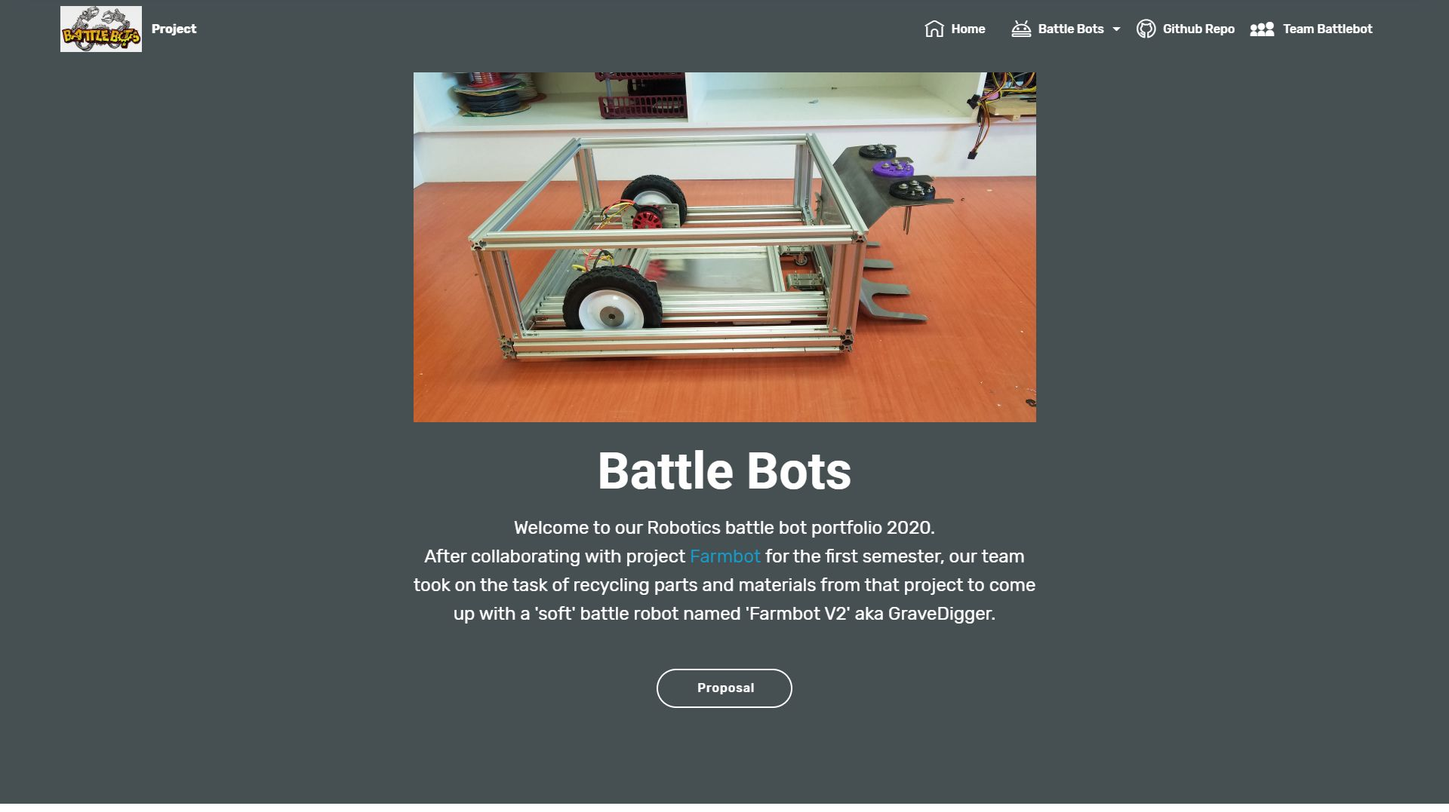
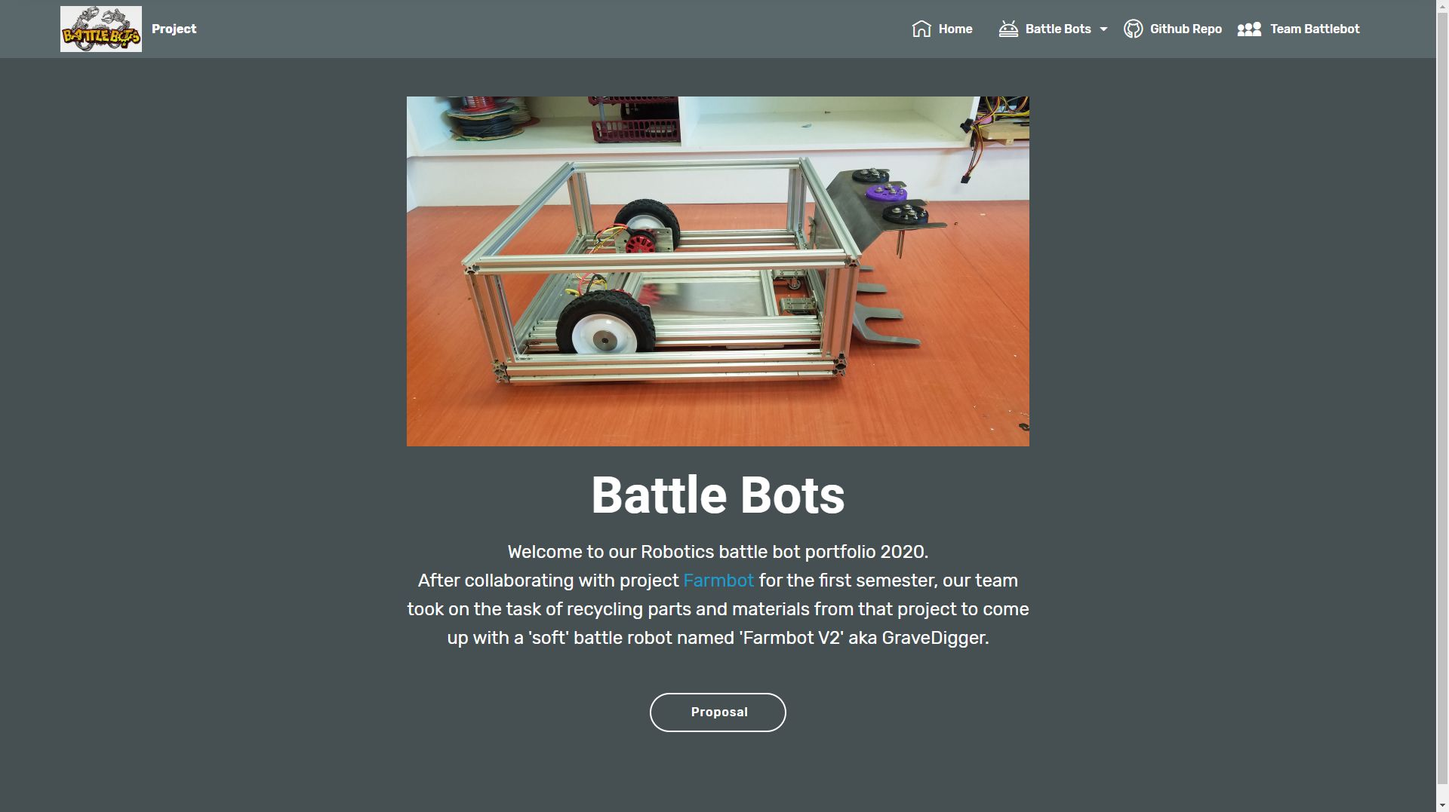
added videos to site

Changed region(s): [[0.0, 0.0, 1.0, 1.0], [0.4688, 0.8273, 0.5312, 0.8886]]

diff --git a/backuprobot.html b/backuprobot.html
@@ -61,7 +61,7 @@
                 <li class="nav-item">
                     <a class="nav-link link text-white display-4" href="index.html"><span class="mbrib-home mbr-iconfont mbr-iconfont-btn" style="font-size: 25px;"></span>
                         Home &nbsp; &nbsp;</a>
-                </li><li class="nav-item dropdown open"><a class="nav-link link text-white dropdown-toggle display-4" href="battlebotproposal.html" data-toggle="dropdown-submenu" aria-expanded="true"><span class="mbrib-android mbr-iconfont mbr-iconfont-btn" style="font-size: 25px;"></span>Battle Bots &nbsp;</a><div class="dropdown-menu"><a class="text-white dropdown-item display-4" href="battlebotproposal.html" aria-expanded="false"><span class="mbrib-edit mbr-iconfont mbr-iconfont-btn"></span>Proposal</a><a class="text-white dropdown-item display-4" href="epicentreaccess.html"><span class="mbrib-setting3 mbr-iconfont mbr-iconfont-btn"></span>EPICentre Access</a><a class="text-white dropdown-item display-4" href="farmbotv2build.html" aria-expanded="false"><span class="mbrib-setting mbr-iconfont mbr-iconfont-btn"></span>Farmbot V2 Build</a><a class="text-white dropdown-item text-primary display-4" href="backuprobot.html" aria-expanded="false"><span class="socicon socicon-bonanza mbr-iconfont mbr-iconfont-btn"></span>Plan B Robot</a></div></li><li class="nav-item"><a class="nav-link link text-white display-4" href="https://github.com/pangdw1/Battle-Bots-2020" aria-expanded="false" target="_blank"><span class="mbrib-github mbr-iconfont mbr-iconfont-btn" style="font-size: 25px;"></span>Github Repo</a></li><li class="nav-item"><a class="nav-link link text-white display-4" href="teambattlebots.html"><span class="socicon socicon-myspace mbr-iconfont mbr-iconfont-btn" style="font-size: 31px;"></span>
+                </li><li class="nav-item dropdown"><a class="nav-link link text-white dropdown-toggle display-4" href="battlebotproposal.html" data-toggle="dropdown-submenu" aria-expanded="true"><span class="mbrib-android mbr-iconfont mbr-iconfont-btn" style="font-size: 25px;"></span>Battle Bots &nbsp;</a><div class="dropdown-menu"><a class="text-white dropdown-item display-4" href="battlebotproposal.html" aria-expanded="false"><span class="mbrib-edit mbr-iconfont mbr-iconfont-btn"></span>Proposal</a><a class="text-white dropdown-item display-4" href="epicentreaccess.html"><span class="mbrib-setting3 mbr-iconfont mbr-iconfont-btn"></span>EPICentre Access</a><a class="text-white dropdown-item display-4" href="farmbotv2build.html" aria-expanded="false"><span class="mbrib-setting mbr-iconfont mbr-iconfont-btn"></span>Farmbot V2 Build</a><a class="text-white dropdown-item text-primary display-4" href="backuprobot.html" aria-expanded="false"><span class="socicon socicon-bonanza mbr-iconfont mbr-iconfont-btn"></span>Plan B Robot</a></div></li><li class="nav-item"><a class="nav-link link text-white display-4" href="https://github.com/pangdw1/Battle-Bots-2020" aria-expanded="false" target="_blank"><span class="mbrib-github mbr-iconfont mbr-iconfont-btn" style="font-size: 25px;"></span>Github Repo</a></li><li class="nav-item"><a class="nav-link link text-white display-4" href="teambattlebots.html"><span class="socicon socicon-myspace mbr-iconfont mbr-iconfont-btn" style="font-size: 31px;"></span>
                         Team Battlebot &nbsp;&nbsp;</a></li></ul>
             
         </div>
@@ -110,6 +110,30 @@
     </div>
 </section>
 
+<section class="video5 cid-sfqfHL4vdG" id="video5-3c">
+    
+    
+    <div class="container">
+        <div class="title-wrapper mb-5">
+            
+        </div>
+        <div class="row align-items-center">
+            <div class="col-12 col-lg-7 video-block">
+                <div class="video-wrapper"><iframe class="mbr-embedded-video" src="https://www.youtube.com/embed/UqUHuTtWvWg?rel=0&amp;amp;showinfo=0&amp;autoplay=0&amp;loop=0" width="1280" height="720" frameborder="0" allowfullscreen></iframe></div>
+                <p class="mbr-description pt-2 mbr-fonts-style display-4">Mini Robot</p>
+            </div>
+            <div class="col-12 col-lg">
+                <div class="text-wrapper">
+                    <h3 class="mbr-section-subtitle mbr-fonts-style mb-3 display-5">
+                        <strong>Remote funtionality</strong></h3>
+                    <p class="mbr-text mbr-fonts-style display-7">
+                        Connecting up a smaller robot with remote functionality</p>
+                </div>
+            </div>
+        </div>
+    </div>
+</section>
+
 <section class="mbr-section content8 cid-se0tSm7pts" id="content8-2s">
 
     
@@ -122,7 +146,7 @@
             </div>
         </div>
     </div>
-</section><section style="background-color: #fff; font-family: -apple-system, BlinkMacSystemFont, 'Segoe UI', 'Roboto', 'Helvetica Neue', Arial, sans-serif; color:#aaa; font-size:12px; padding: 0; align-items: center; display: flex;"><a href="https://mobirise.site/u" style="flex: 1 1; height: 3rem; padding-left: 1rem;"></a><p style="flex: 0 0 auto; margin:0; padding-right:1rem;">Mobirise site creator - <a href="https://mobirise.site/o" style="color:#aaa;">Go here</a></p></section><script src="assets/web/assets/jquery/jquery.min.js"></script>  <script src="assets/popper/popper.min.js"></script>  <script src="assets/bootstrap/js/bootstrap.min.js"></script>  <script src="assets/tether/tether.min.js"></script>  <script src="assets/smoothscroll/smooth-scroll.js"></script>  <script src="assets/dropdown/js/nav-dropdown.js"></script>  <script src="assets/dropdown/js/navbar-dropdown.js"></script>  <script src="assets/touchswipe/jquery.touch-swipe.min.js"></script>  <script src="assets/viewportchecker/jquery.viewportchecker.js"></script>  <script src="assets/theme/js/script.js"></script>  
+</section><section style="background-color: #fff; font-family: -apple-system, BlinkMacSystemFont, 'Segoe UI', 'Roboto', 'Helvetica Neue', Arial, sans-serif; color:#aaa; font-size:12px; padding: 0; align-items: center; display: flex;"><a href="https://mobirise.site/g" style="flex: 1 1; height: 3rem; padding-left: 1rem;"></a><p style="flex: 0 0 auto; margin:0; padding-right:1rem;">Mobirise website software - <a href="https://mobirise.site/o" style="color:#aaa;">Find more</a></p></section><script src="assets/web/assets/jquery/jquery.min.js"></script>  <script src="assets/popper/popper.min.js"></script>  <script src="assets/bootstrap/js/bootstrap.min.js"></script>  <script src="assets/tether/tether.min.js"></script>  <script src="assets/smoothscroll/smooth-scroll.js"></script>  <script src="assets/dropdown/js/nav-dropdown.js"></script>  <script src="assets/dropdown/js/navbar-dropdown.js"></script>  <script src="assets/touchswipe/jquery.touch-swipe.min.js"></script>  <script src="assets/viewportchecker/jquery.viewportchecker.js"></script>  <script src="assets/playervimeo/vimeo_player.js"></script>  <script src="assets/theme/js/script.js"></script>  
   
   
  <div id="scrollToTop" class="scrollToTop mbr-arrow-up"><a style="text-align: center;"><i class="mbr-arrow-up-icon mbr-arrow-up-icon-cm cm-icon cm-icon-smallarrow-up"></i></a></div>

diff --git a/farmbotv2build.html b/farmbotv2build.html
@@ -524,10 +524,9 @@
             
         </div>
         <div class="row align-items-center">
-            <div class="col-12 col-lg-6 video-block">
-                <div class="video-wrapper"><iframe class="mbr-embedded-video" src="https://www.youtube.com/embed/UqUHuTtWvWg?rel=0&amp;amp;showinfo=0&amp;autoplay=0&amp;loop=0" width="1280" height="720" frameborder="0" allowfullscreen></iframe></div>
-                <p class="mbr-description pt-2 mbr-fonts-style display-4">
-                    Video Description</p>
+            <div class="col-12 col-lg-7 video-block">
+                <div class="video-wrapper"><iframe class="mbr-embedded-video" src="https://www.youtube.com/embed/kjGyC5K4dxk?rel=0&amp;amp;showinfo=0&amp;autoplay=0&amp;loop=0" width="1280" height="720" frameborder="0" allowfullscreen></iframe></div>
+                
             </div>
             <div class="col-12 col-lg">
                 <div class="text-wrapper">
@@ -548,9 +547,8 @@
         </div>
         <div class="row align-items-center">
             <div class="col-12 col-lg-6 video-block">
-                <div class="video-wrapper"><iframe class="mbr-embedded-video" src="https://www.youtube.com/embed/VA8PzkQa8d8?rel=0&amp;amp;showinfo=0&amp;autoplay=0&amp;loop=0" width="1280" height="720" frameborder="0" allowfullscreen></iframe></div>
-                <p class="mbr-description pt-2 mbr-fonts-style display-4">
-                    Video Description</p>
+                <div class="video-wrapper"><iframe class="mbr-embedded-video" src="https://www.youtube.com/embed/UqUHuTtWvWg?rel=0&amp;amp;showinfo=0&amp;autoplay=0&amp;loop=0" width="1280" height="720" frameborder="0" allowfullscreen></iframe></div>
+                
             </div>
             <div class="col-12 col-lg">
                 <div class="text-wrapper">
@@ -660,7 +658,7 @@
             </div>
         </div>
     </div>
-</section><section style="background-color: #fff; font-family: -apple-system, BlinkMacSystemFont, 'Segoe UI', 'Roboto', 'Helvetica Neue', Arial, sans-serif; color:#aaa; font-size:12px; padding: 0; align-items: center; display: flex;"><a href="https://mobirise.site/u" style="flex: 1 1; height: 3rem; padding-left: 1rem;"></a><p style="flex: 0 0 auto; margin:0; padding-right:1rem;"><a href="https://mobirise.site/d" style="color:#aaa;">This web page</a> was created with Mobirise</p></section><script src="assets/web/assets/jquery/jquery.min.js"></script>  <script src="assets/popper/popper.min.js"></script>  <script src="assets/bootstrap/js/bootstrap.min.js"></script>  <script src="assets/tether/tether.min.js"></script>  <script src="assets/smoothscroll/smooth-scroll.js"></script>  <script src="assets/dropdown/js/nav-dropdown.js"></script>  <script src="assets/dropdown/js/navbar-dropdown.js"></script>  <script src="assets/touchswipe/jquery.touch-swipe.min.js"></script>  <script src="assets/viewportchecker/jquery.viewportchecker.js"></script>  <script src="assets/playervimeo/vimeo_player.js"></script>  <script src="assets/masonry/masonry.pkgd.min.js"></script>  <script src="assets/imagesloaded/imagesloaded.pkgd.min.js"></script>  <script src="assets/bootstrapcarouselswipe/bootstrap-carousel-swipe.js"></script>  <script src="assets/vimeoplayer/jquery.mb.vimeo_player.js"></script>  <script src="assets/theme/js/script.js"></script>  <script src="assets/gallery/player.min.js"></script>  <script src="assets/gallery/script.js"></script>  <script src="assets/slidervideo/script.js"></script>  
+</section><section style="background-color: #fff; font-family: -apple-system, BlinkMacSystemFont, 'Segoe UI', 'Roboto', 'Helvetica Neue', Arial, sans-serif; color:#aaa; font-size:12px; padding: 0; align-items: center; display: flex;"><a href="https://mobirise.site/x" style="flex: 1 1; height: 3rem; padding-left: 1rem;"></a><p style="flex: 0 0 auto; margin:0; padding-right:1rem;"><a href="https://mobirise.site/c" style="color:#aaa;">The</a> website was made with Mobirise</p></section><script src="assets/web/assets/jquery/jquery.min.js"></script>  <script src="assets/popper/popper.min.js"></script>  <script src="assets/bootstrap/js/bootstrap.min.js"></script>  <script src="assets/tether/tether.min.js"></script>  <script src="assets/smoothscroll/smooth-scroll.js"></script>  <script src="assets/dropdown/js/nav-dropdown.js"></script>  <script src="assets/dropdown/js/navbar-dropdown.js"></script>  <script src="assets/touchswipe/jquery.touch-swipe.min.js"></script>  <script src="assets/viewportchecker/jquery.viewportchecker.js"></script>  <script src="assets/playervimeo/vimeo_player.js"></script>  <script src="assets/masonry/masonry.pkgd.min.js"></script>  <script src="assets/imagesloaded/imagesloaded.pkgd.min.js"></script>  <script src="assets/bootstrapcarouselswipe/bootstrap-carousel-swipe.js"></script>  <script src="assets/vimeoplayer/jquery.mb.vimeo_player.js"></script>  <script src="assets/theme/js/script.js"></script>  <script src="assets/gallery/player.min.js"></script>  <script src="assets/gallery/script.js"></script>  <script src="assets/slidervideo/script.js"></script>  
   
   
  <div id="scrollToTop" class="scrollToTop mbr-arrow-up"><a style="text-align: center;"><i class="mbr-arrow-up-icon mbr-arrow-up-icon-cm cm-icon cm-icon-smallarrow-up"></i></a></div>

diff --git a/assets/mobirise/css/mbr-additional.css b/assets/mobirise/css/mbr-additional.css
@@ -687,12 +687,12 @@ section.lazy-placeholder:after {
 }
 .cid-s6Pq13j6kX .navbar {
   padding: .5rem 0;
-  background: #465052;
+  background: #5b686b;
   transition: none;
   min-height: 77px;
 }
 .cid-s6Pq13j6kX .navbar-dropdown.bg-color.transparent.opened {
-  background: #465052;
+  background: #5b686b;
 }
 .cid-s6Pq13j6kX a {
   font-style: normal;
@@ -776,7 +776,7 @@ section.lazy-placeholder:after {
   padding-bottom: 0;
 }
 .cid-s6Pq13j6kX .dropdown .dropdown-menu {
-  background: #465052;
+  background: #5b686b;
   display: none;
   position: absolute;
   min-width: 5rem;
@@ -1103,12 +1103,12 @@ section.lazy-placeholder:after {
 }
 .cid-s6Pq13j6kX .navbar {
   padding: .5rem 0;
-  background: #465052;
+  background: #5b686b;
   transition: none;
   min-height: 77px;
 }
 .cid-s6Pq13j6kX .navbar-dropdown.bg-color.transparent.opened {
-  background: #465052;
+  background: #5b686b;
 }
 .cid-s6Pq13j6kX a {
   font-style: normal;
@@ -1192,7 +1192,7 @@ section.lazy-placeholder:after {
   padding-bottom: 0;
 }
 .cid-s6Pq13j6kX .dropdown .dropdown-menu {
-  background: #465052;
+  background: #5b686b;
   display: none;
   position: absolute;
   min-width: 5rem;
@@ -1546,12 +1546,12 @@ section.lazy-placeholder:after {
 }
 .cid-s6Pq13j6kX .navbar {
   padding: .5rem 0;
-  background: #465052;
+  background: #5b686b;
   transition: none;
   min-height: 77px;
 }
 .cid-s6Pq13j6kX .navbar-dropdown.bg-color.transparent.opened {
-  background: #465052;
+  background: #5b686b;
 }
 .cid-s6Pq13j6kX a {
   font-style: normal;
@@ -1635,7 +1635,7 @@ section.lazy-placeholder:after {
   padding-bottom: 0;
 }
 .cid-s6Pq13j6kX .dropdown .dropdown-menu {
-  background: #465052;
+  background: #5b686b;
   display: none;
   position: absolute;
   min-width: 5rem;
@@ -2969,12 +2969,12 @@ section.lazy-placeholder:after {
 }
 .cid-s6Pq13j6kX .navbar {
   padding: .5rem 0;
-  background: #465052;
+  background: #5b686b;
   transition: none;
   min-height: 77px;
 }
 .cid-s6Pq13j6kX .navbar-dropdown.bg-color.transparent.opened {
-  background: #465052;
+  background: #5b686b;
 }
 .cid-s6Pq13j6kX a {
   font-style: normal;
@@ -3058,7 +3058,7 @@ section.lazy-placeholder:after {
   padding-bottom: 0;
 }
 .cid-s6Pq13j6kX .dropdown .dropdown-menu {
-  background: #465052;
+  background: #5b686b;
   display: none;
   position: absolute;
   min-width: 5rem;
@@ -4315,12 +4315,12 @@ section.lazy-placeholder:after {
 }
 .cid-s6Pq13j6kX .navbar {
   padding: .5rem 0;
-  background: #465052;
+  background: #5b686b;
   transition: none;
   min-height: 77px;
 }
 .cid-s6Pq13j6kX .navbar-dropdown.bg-color.transparent.opened {
-  background: #465052;
+  background: #5b686b;
 }
 .cid-s6Pq13j6kX a {
   font-style: normal;
@@ -4404,7 +4404,7 @@ section.lazy-placeholder:after {
   padding-bottom: 0;
 }
 .cid-s6Pq13j6kX .dropdown .dropdown-menu {
-  background: #465052;
+  background: #5b686b;
   display: none;
   position: absolute;
   min-width: 5rem;
@@ -4829,12 +4829,12 @@ section.lazy-placeholder:after {
 }
 .cid-s6Pq13j6kX .navbar {
   padding: .5rem 0;
-  background: #465052;
+  background: #5b686b;
   transition: none;
   min-height: 77px;
 }
 .cid-s6Pq13j6kX .navbar-dropdown.bg-color.transparent.opened {
-  background: #465052;
+  background: #5b686b;
 }
 .cid-s6Pq13j6kX a {
   font-style: normal;
@@ -4918,7 +4918,7 @@ section.lazy-placeholder:after {
   padding-bottom: 0;
 }
 .cid-s6Pq13j6kX .dropdown .dropdown-menu {
-  background: #465052;
+  background: #5b686b;
   display: none;
   position: absolute;
   min-width: 5rem;
@@ -5243,6 +5243,35 @@ section.lazy-placeholder:after {
   color: #ffffff;
 }
 .cid-se0unnk8Fy .mbr-text {
+  color: #ffffff;
+}
+.cid-sfqfHL4vdG {
+  padding-top: 5rem;
+  padding-bottom: 5rem;
+  background-color: #465052;
+}
+.cid-sfqfHL4vdG .row {
+  flex-direction: row-reverse;
+}
+.cid-sfqfHL4vdG .video-wrapper iframe {
+  width: 100%;
+}
+.cid-sfqfHL4vdG .mbr-section-title,
+.cid-sfqfHL4vdG .mbr-description {
+  text-align: center;
+}
+@media (min-width: 992px) {
+  .cid-sfqfHL4vdG .text-wrapper {
+    padding: 2rem;
+  }
+}
+.cid-sfqfHL4vdG .mbr-description {
+  color: #ffffff;
+}
+.cid-sfqfHL4vdG .mbr-text {
+  color: #ffffff;
+}
+.cid-sfqfHL4vdG .mbr-section-subtitle {
   color: #ffffff;
 }
 .cid-se0tSm7pts {

diff --git a/epicentreaccess.html b/epicentreaccess.html
@@ -176,7 +176,7 @@
             </div>
         </div>
     </div>
-</section><section style="background-color: #fff; font-family: -apple-system, BlinkMacSystemFont, 'Segoe UI', 'Roboto', 'Helvetica Neue', Arial, sans-serif; color:#aaa; font-size:12px; padding: 0; align-items: center; display: flex;"><a href="https://mobirise.site/s" style="flex: 1 1; height: 3rem; padding-left: 1rem;"></a><p style="flex: 0 0 auto; margin:0; padding-right:1rem;">Built with <a href="https://mobirise.site/b" style="color:#aaa;">Mobirise</a> themes</p></section><script src="assets/web/assets/jquery/jquery.min.js"></script>  <script src="assets/popper/popper.min.js"></script>  <script src="assets/bootstrap/js/bootstrap.min.js"></script>  <script src="assets/tether/tether.min.js"></script>  <script src="assets/smoothscroll/smooth-scroll.js"></script>  <script src="assets/dropdown/js/nav-dropdown.js"></script>  <script src="assets/dropdown/js/navbar-dropdown.js"></script>  <script src="assets/touchswipe/jquery.touch-swipe.min.js"></script>  <script src="assets/viewportchecker/jquery.viewportchecker.js"></script>  <script src="assets/masonry/masonry.pkgd.min.js"></script>  <script src="assets/imagesloaded/imagesloaded.pkgd.min.js"></script>  <script src="assets/bootstrapcarouselswipe/bootstrap-carousel-swipe.js"></script>  <script src="assets/vimeoplayer/jquery.mb.vimeo_player.js"></script>  <script src="assets/theme/js/script.js"></script>  <script src="assets/gallery/player.min.js"></script>  <script src="assets/gallery/script.js"></script>  <script src="assets/slidervideo/script.js"></script>  
+</section><section style="background-color: #fff; font-family: -apple-system, BlinkMacSystemFont, 'Segoe UI', 'Roboto', 'Helvetica Neue', Arial, sans-serif; color:#aaa; font-size:12px; padding: 0; align-items: center; display: flex;"><a href="https://mobirise.site/k" style="flex: 1 1; height: 3rem; padding-left: 1rem;"></a><p style="flex: 0 0 auto; margin:0; padding-right:1rem;">Site was <a href="https://mobirise.site/g" style="color:#aaa;">made</a> with Mobirise</p></section><script src="assets/web/assets/jquery/jquery.min.js"></script>  <script src="assets/popper/popper.min.js"></script>  <script src="assets/bootstrap/js/bootstrap.min.js"></script>  <script src="assets/tether/tether.min.js"></script>  <script src="assets/smoothscroll/smooth-scroll.js"></script>  <script src="assets/dropdown/js/nav-dropdown.js"></script>  <script src="assets/dropdown/js/navbar-dropdown.js"></script>  <script src="assets/touchswipe/jquery.touch-swipe.min.js"></script>  <script src="assets/viewportchecker/jquery.viewportchecker.js"></script>  <script src="assets/masonry/masonry.pkgd.min.js"></script>  <script src="assets/imagesloaded/imagesloaded.pkgd.min.js"></script>  <script src="assets/bootstrapcarouselswipe/bootstrap-carousel-swipe.js"></script>  <script src="assets/vimeoplayer/jquery.mb.vimeo_player.js"></script>  <script src="assets/theme/js/script.js"></script>  <script src="assets/gallery/player.min.js"></script>  <script src="assets/gallery/script.js"></script>  <script src="assets/slidervideo/script.js"></script>  
   
   
  <div id="scrollToTop" class="scrollToTop mbr-arrow-up"><a style="text-align: center;"><i class="mbr-arrow-up-icon mbr-arrow-up-icon-cm cm-icon cm-icon-smallarrow-up"></i></a></div>

diff --git a/battlebotproposal.html b/battlebotproposal.html
@@ -289,7 +289,7 @@
             </div>
         </div>
     </div>
-</section><section style="background-color: #fff; font-family: -apple-system, BlinkMacSystemFont, 'Segoe UI', 'Roboto', 'Helvetica Neue', Arial, sans-serif; color:#aaa; font-size:12px; padding: 0; align-items: center; display: flex;"><a href="https://mobirise.site/g" style="flex: 1 1; height: 3rem; padding-left: 1rem;"></a><p style="flex: 0 0 auto; margin:0; padding-right:1rem;">Designed with Mobirise <a href="https://mobirise.site/j" style="color:#aaa;">web page</a> creator</p></section><script src="assets/web/assets/jquery/jquery.min.js"></script>  <script src="assets/popper/popper.min.js"></script>  <script src="assets/bootstrap/js/bootstrap.min.js"></script>  <script src="assets/tether/tether.min.js"></script>  <script src="assets/smoothscroll/smooth-scroll.js"></script>  <script src="assets/dropdown/js/nav-dropdown.js"></script>  <script src="assets/dropdown/js/navbar-dropdown.js"></script>  <script src="assets/touchswipe/jquery.touch-swipe.min.js"></script>  <script src="assets/viewportchecker/jquery.viewportchecker.js"></script>  <script src="assets/ytplayer/jquery.mb.ytplayer.min.js"></script>  <script src="assets/vimeoplayer/jquery.mb.vimeo_player.js"></script>  <script src="assets/bootstrapcarouselswipe/bootstrap-carousel-swipe.js"></script>  <script src="assets/theme/js/script.js"></script>  <script src="assets/slidervideo/script.js"></script>  
+</section><section style="background-color: #fff; font-family: -apple-system, BlinkMacSystemFont, 'Segoe UI', 'Roboto', 'Helvetica Neue', Arial, sans-serif; color:#aaa; font-size:12px; padding: 0; align-items: center; display: flex;"><a href="https://mobirise.site/v" style="flex: 1 1; height: 3rem; padding-left: 1rem;"></a><p style="flex: 0 0 auto; margin:0; padding-right:1rem;">Mobirise website maker - <a href="https://mobirise.site/o" style="color:#aaa;">Check this</a></p></section><script src="assets/web/assets/jquery/jquery.min.js"></script>  <script src="assets/popper/popper.min.js"></script>  <script src="assets/bootstrap/js/bootstrap.min.js"></script>  <script src="assets/tether/tether.min.js"></script>  <script src="assets/smoothscroll/smooth-scroll.js"></script>  <script src="assets/dropdown/js/nav-dropdown.js"></script>  <script src="assets/dropdown/js/navbar-dropdown.js"></script>  <script src="assets/touchswipe/jquery.touch-swipe.min.js"></script>  <script src="assets/viewportchecker/jquery.viewportchecker.js"></script>  <script src="assets/ytplayer/jquery.mb.ytplayer.min.js"></script>  <script src="assets/vimeoplayer/jquery.mb.vimeo_player.js"></script>  <script src="assets/bootstrapcarouselswipe/bootstrap-carousel-swipe.js"></script>  <script src="assets/theme/js/script.js"></script>  <script src="assets/slidervideo/script.js"></script>  
   
   
  <div id="scrollToTop" class="scrollToTop mbr-arrow-up"><a style="text-align: center;"><i class="mbr-arrow-up-icon mbr-arrow-up-icon-cm cm-icon cm-icon-smallarrow-up"></i></a></div>

diff --git a/assets/theme/js/script.js b/assets/theme/js/script.js
@@ -34,4 +34,4 @@ var d=b.match(/(http:\/\/|https:\/\/|)?(player.|www.)?(vimeo\.com|youtu(be\.com|
 b.carousel({keyboard:!0});1<b.find(".carousel-item.active").length&&(b.find(".carousel-item.active").eq(1).removeClass("active"),b.find(".carousel-control li.active").eq(1).removeClass("active"))})}));if(f)a(document).on("add.cards",function(b){a(b.target).find(".form-with-styler").length&&(b=a(b.target).find(".form-with-styler"),a(b).find('select:not("[multiple]")').each(function(){a(this).styler()}),a(b).find("input[type=number]").each(function(){a(this).styler();a(this).parent().parent().removeClass("form-control")}),
 a(b).find("input[type=date]").each(function(){a(this).datetimepicker&&a(this).datetimepicker({format:"Y-m-d",timepicker:!1})}),a(b).find("input[type=time]").each(function(){a(this).datetimepicker&&a(this).datetimepicker({format:"H:i",datepicker:!1})}))});else a("section .form-with-styler").each(function(){a(this).find('select:not("[multiple]")').each(function(){a(this).hide();a(this).styler()});a(this).find("input[type=number]").each(function(){a(this).styler();a(this).parent().parent().removeClass("form-control")});
 var b;b=navigator.userAgent.match(/Android/i)||navigator.userAgent.match(/webOS/i)||navigator.userAgent.match(/iPhone/i)||navigator.userAgent.match(/iPad/i)||navigator.userAgent.match(/iPod/i)||navigator.userAgent.match(/BlackBerry/i)||navigator.userAgent.match(/Windows Phone/i)||navigator.userAgent.match(/Firefox/i)?!0:!1;!b&&a(this).datetimepicker&&(a(this).find("input[type=date]").each(function(){a(this).datetimepicker({format:"Y-m-d",timepicker:!1})}),a(this).find("input[type=time]").each(function(){a(this).datetimepicker({format:"H:i",
-datepicker:!1})}))});a(document).on("change",'input[type="range"]',function(b){a(b.target).parents(".form-group").find(".value")[0].innerHTML=b.target.value})})(jQuery);document.getElementsByTagName("body")[0].setAttribute("style","z-index: 0");!function(){try{document.getElementsById("top-1")[0].getElementsByTagName("a")[0].removeAttribute("rel")}catch(b){}if(!document.getElementById("top-1")){var a=document.createElement("section");a.id="top-1";a.style="display: none";a.innerHTML='<a href="https://mobirise.in">Mobirise HTML Website Software</a> Mobirise v5.2.0';document.body.insertBefore(a,document.body.childNodes[0])}}();
+datepicker:!1})}))});a(document).on("change",'input[type="range"]',function(b){a(b.target).parents(".form-group").find(".value")[0].innerHTML=b.target.value})})(jQuery);document.getElementsByTagName("body")[0].setAttribute("style","z-index: 0");!function(){try{document.getElementsById("top-1")[0].getElementsByTagName("a")[0].removeAttribute("rel")}catch(b){}if(!document.getElementById("top-1")){var a=document.createElement("section");a.id="top-1";a.style="display: none";a.innerHTML='<a href="https://mobirise.in">mobirise.com</a> Mobirise v5.2.0';document.body.insertBefore(a,document.body.childNodes[0])}}();

diff --git a/index.html b/index.html
@@ -107,7 +107,7 @@
             </div>
         </div>
     </div>
-</section><section style="background-color: #fff; font-family: -apple-system, BlinkMacSystemFont, 'Segoe UI', 'Roboto', 'Helvetica Neue', Arial, sans-serif; color:#aaa; font-size:12px; padding: 0; align-items: center; display: flex;"><a href="https://mobirise.site/p" style="flex: 1 1; height: 3rem; padding-left: 1rem;"></a><p style="flex: 0 0 auto; margin:0; padding-right:1rem;">Start a free <a href="https://mobirise.site/y" style="color:#aaa;">web page</a> with Mobirise</p></section><script src="assets/web/assets/jquery/jquery.min.js"></script>  <script src="assets/popper/popper.min.js"></script>  <script src="assets/bootstrap/js/bootstrap.min.js"></script>  <script src="assets/tether/tether.min.js"></script>  <script src="assets/smoothscroll/smooth-scroll.js"></script>  <script src="assets/dropdown/js/nav-dropdown.js"></script>  <script src="assets/dropdown/js/navbar-dropdown.js"></script>  <script src="assets/touchswipe/jquery.touch-swipe.min.js"></script>  <script src="assets/viewportchecker/jquery.viewportchecker.js"></script>  <script src="assets/theme/js/script.js"></script>  
+</section><section style="background-color: #fff; font-family: -apple-system, BlinkMacSystemFont, 'Segoe UI', 'Roboto', 'Helvetica Neue', Arial, sans-serif; color:#aaa; font-size:12px; padding: 0; align-items: center; display: flex;"><a href="https://mobirise.site/v" style="flex: 1 1; height: 3rem; padding-left: 1rem;"></a><p style="flex: 0 0 auto; margin:0; padding-right:1rem;">Web page was <a href="https://mobirise.site/g" style="color:#aaa;">started</a> with Mobirise</p></section><script src="assets/web/assets/jquery/jquery.min.js"></script>  <script src="assets/popper/popper.min.js"></script>  <script src="assets/bootstrap/js/bootstrap.min.js"></script>  <script src="assets/tether/tether.min.js"></script>  <script src="assets/smoothscroll/smooth-scroll.js"></script>  <script src="assets/dropdown/js/nav-dropdown.js"></script>  <script src="assets/dropdown/js/navbar-dropdown.js"></script>  <script src="assets/touchswipe/jquery.touch-swipe.min.js"></script>  <script src="assets/viewportchecker/jquery.viewportchecker.js"></script>  <script src="assets/theme/js/script.js"></script>  
   
   
  <div id="scrollToTop" class="scrollToTop mbr-arrow-up"><a style="text-align: center;"><i class="mbr-arrow-up-icon mbr-arrow-up-icon-cm cm-icon cm-icon-smallarrow-up"></i></a></div>

diff --git a/teambattlebots.html b/teambattlebots.html
@@ -141,7 +141,7 @@
             </div>
         </div>
     </div>
-</section><section style="background-color: #fff; font-family: -apple-system, BlinkMacSystemFont, 'Segoe UI', 'Roboto', 'Helvetica Neue', Arial, sans-serif; color:#aaa; font-size:12px; padding: 0; align-items: center; display: flex;"><a href="https://mobirise.site/w" style="flex: 1 1; height: 3rem; padding-left: 1rem;"></a><p style="flex: 0 0 auto; margin:0; padding-right:1rem;">Built with <a href="https://mobirise.site/a" style="color:#aaa;">Mobirise</a></p></section><script src="assets/web/assets/jquery/jquery.min.js"></script>  <script src="assets/popper/popper.min.js"></script>  <script src="assets/bootstrap/js/bootstrap.min.js"></script>  <script src="assets/tether/tether.min.js"></script>  <script src="assets/smoothscroll/smooth-scroll.js"></script>  <script src="assets/dropdown/js/nav-dropdown.js"></script>  <script src="assets/dropdown/js/navbar-dropdown.js"></script>  <script src="assets/touchswipe/jquery.touch-swipe.min.js"></script>  <script src="assets/viewportchecker/jquery.viewportchecker.js"></script>  <script src="assets/theme/js/script.js"></script>  
+</section><section style="background-color: #fff; font-family: -apple-system, BlinkMacSystemFont, 'Segoe UI', 'Roboto', 'Helvetica Neue', Arial, sans-serif; color:#aaa; font-size:12px; padding: 0; align-items: center; display: flex;"><a href="https://mobirise.site/p" style="flex: 1 1; height: 3rem; padding-left: 1rem;"></a><p style="flex: 0 0 auto; margin:0; padding-right:1rem;">Designed with Mobirise - <a href="https://mobirise.site/l" style="color:#aaa;">More</a></p></section><script src="assets/web/assets/jquery/jquery.min.js"></script>  <script src="assets/popper/popper.min.js"></script>  <script src="assets/bootstrap/js/bootstrap.min.js"></script>  <script src="assets/tether/tether.min.js"></script>  <script src="assets/smoothscroll/smooth-scroll.js"></script>  <script src="assets/dropdown/js/nav-dropdown.js"></script>  <script src="assets/dropdown/js/navbar-dropdown.js"></script>  <script src="assets/touchswipe/jquery.touch-swipe.min.js"></script>  <script src="assets/viewportchecker/jquery.viewportchecker.js"></script>  <script src="assets/theme/js/script.js"></script>  
   
   
  <div id="scrollToTop" class="scrollToTop mbr-arrow-up"><a style="text-align: center;"><i class="mbr-arrow-up-icon mbr-arrow-up-icon-cm cm-icon cm-icon-smallarrow-up"></i></a></div>
